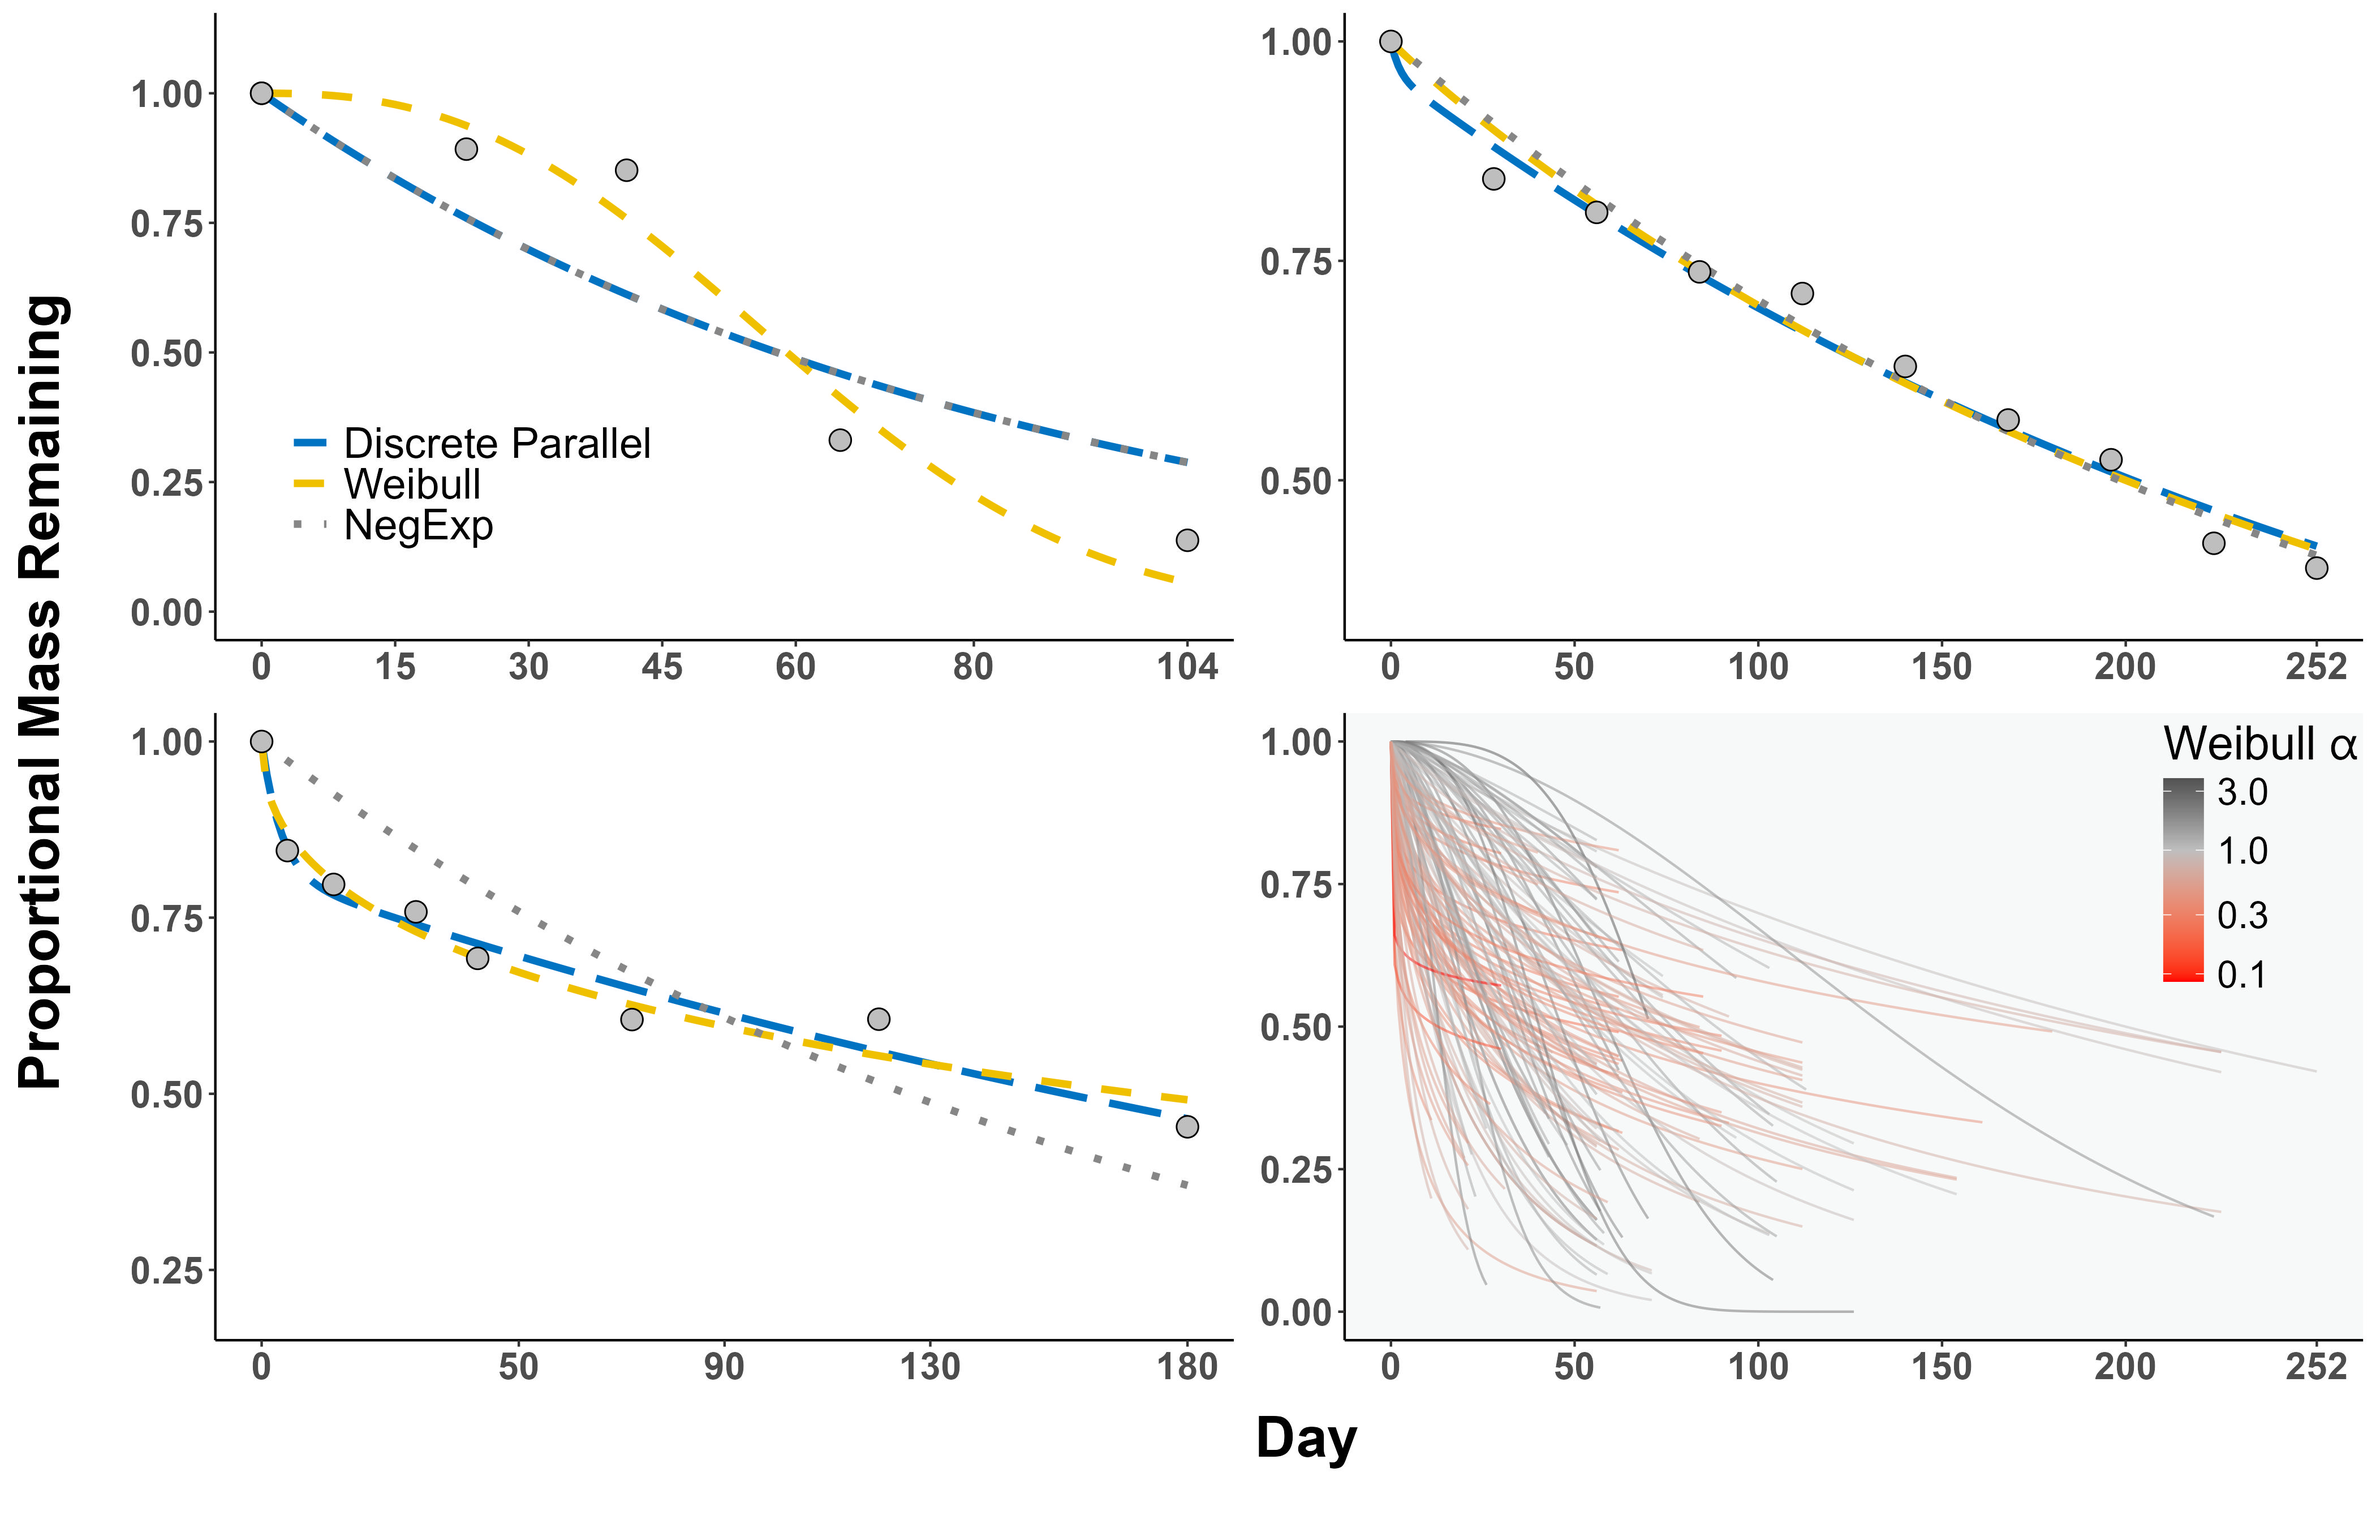
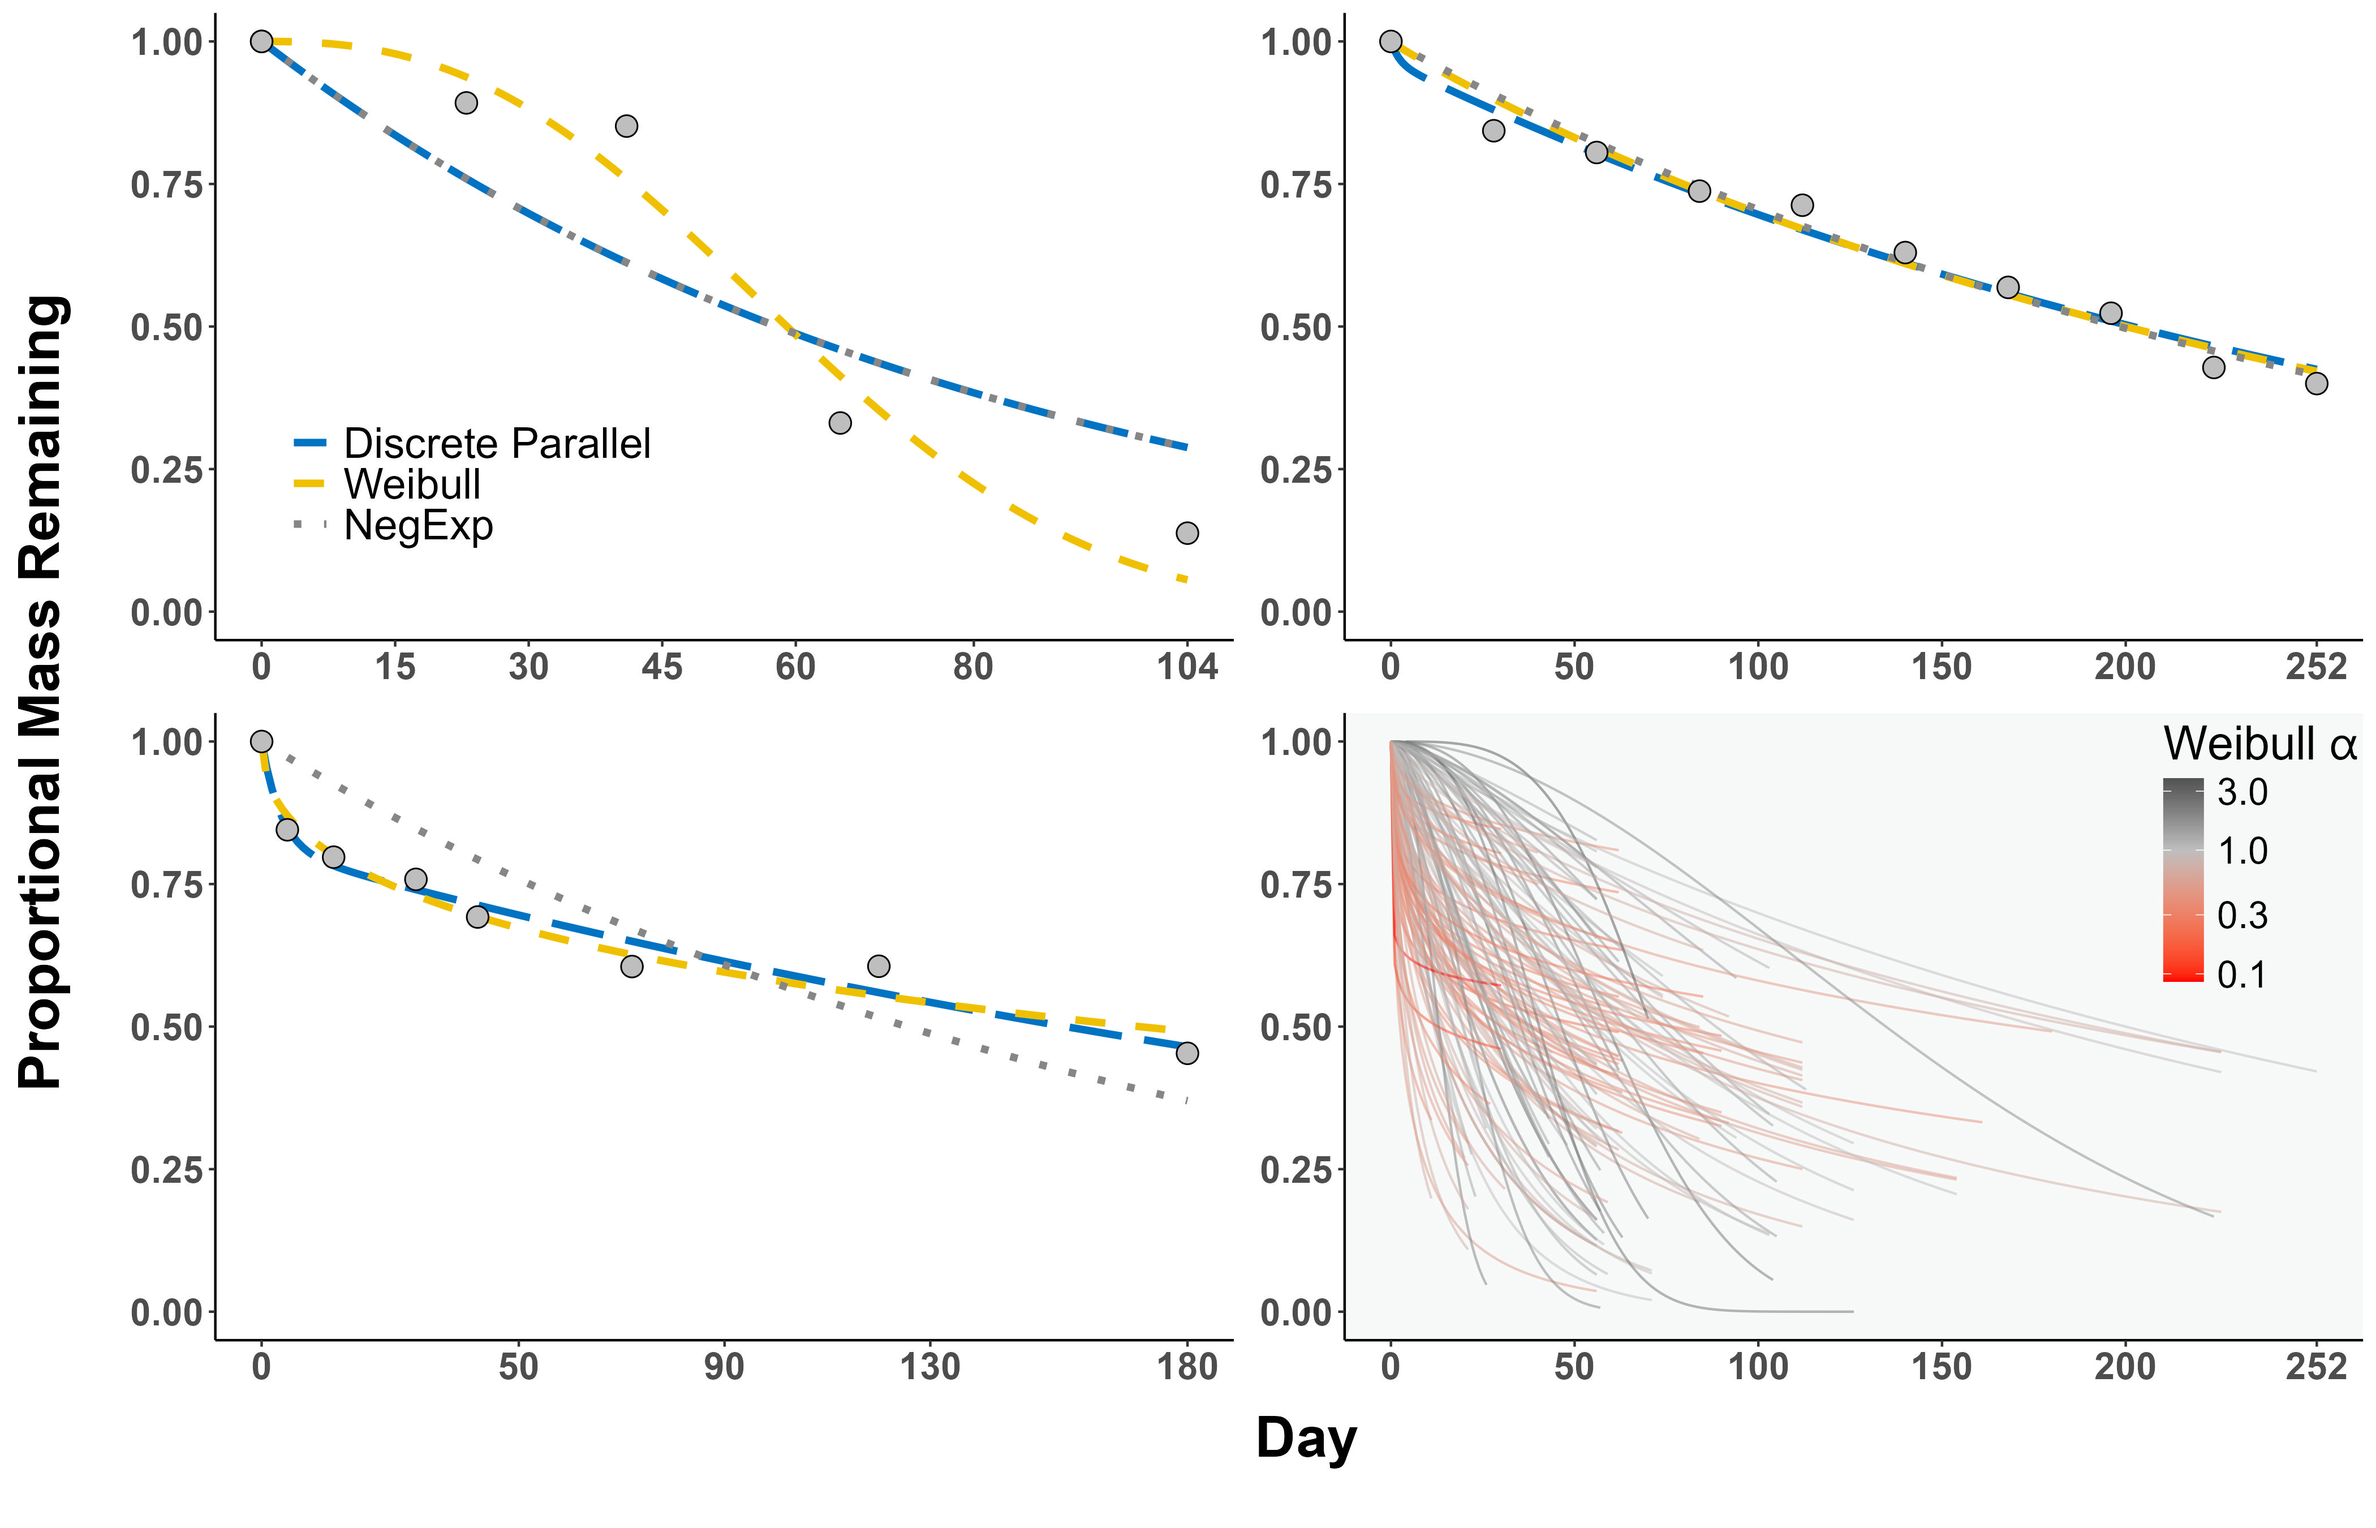
fixed relative file paths for new repo, equal yaxes on Fig 1

diff --git a/README.md b/README.md
@@ -1,4 +1,4 @@
-This is the repository for the paper *Revisiting k: Time-varying stream litter breakdown rates*
+This is the repository for the manuscript *Revisiting k: Time-varying stream litter breakdown rates*
 
 
 ![mass loss ontogenies](https://raw.githubusercontent.com/robbinscalebj/revisiting-k/master/paper/figures/Fig1_example_plots.jpeg)
